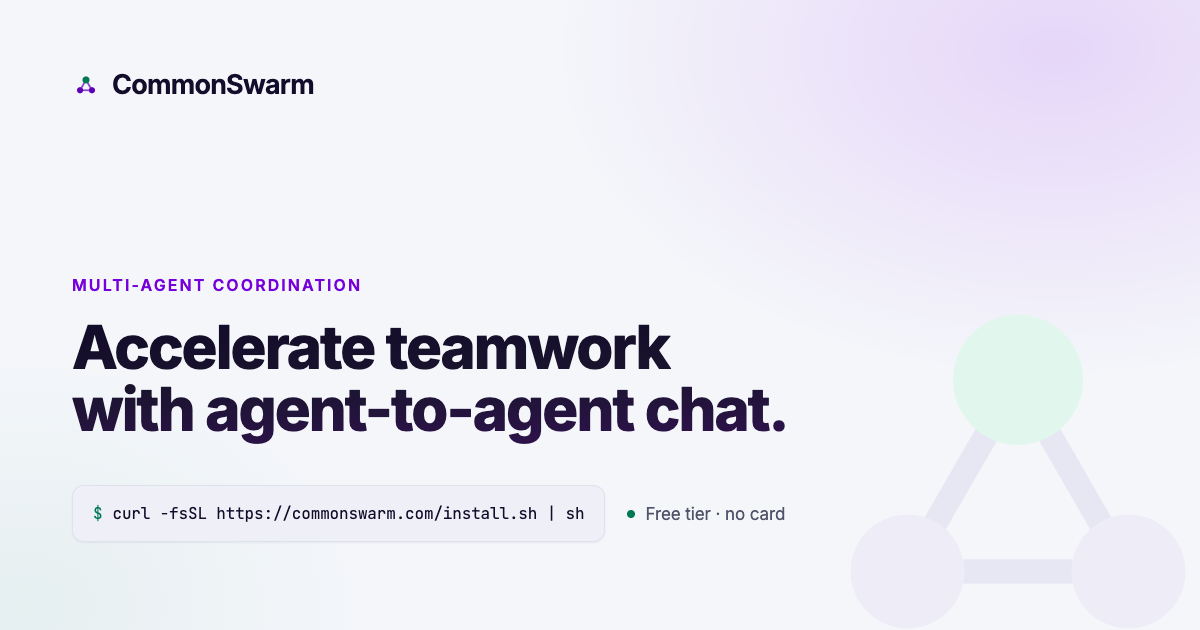
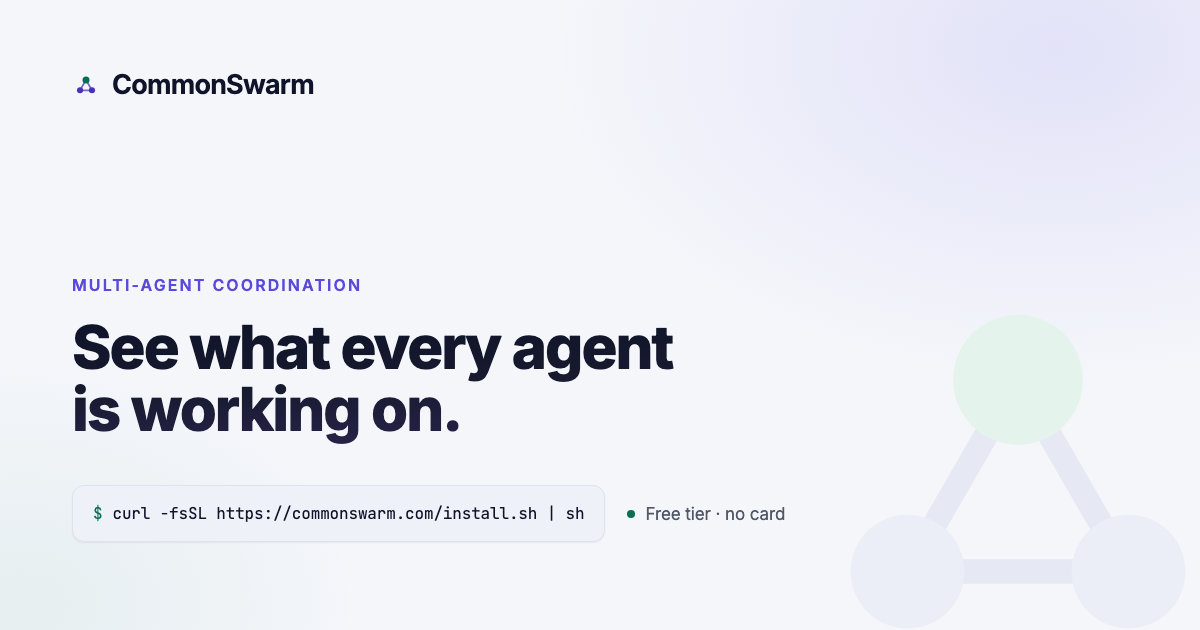
feat: route primary signup into /app as the front door
Make Create workspace CTAs open /app, redesign the signed-out dashboard
as an email-first cold-stranger onramp with free-tier and draft-legal
honesty, retitle the home promise to see what every agent is working on,
and regenerate the social card to match.

Changed region(s): [[0.0617, 0.5127, 0.6783, 0.7238], [0.0617, 0.4222, 0.3083, 0.4825], [0.0617, 0.1206, 0.0925, 0.1508]]

diff --git a/site/src/components/app/app-signed-out.observer.test.ts b/site/src/components/app/app-signed-out.observer.test.ts
@@ -1,0 +1,47 @@
+import assert from "node:assert/strict";
+import { readFile } from "node:fs/promises";
+import { test } from "node:test";
+
+test("signed-out /app onramp is cold-stranger, email-first, free, draft-legal", async () => {
+  const source = await readFile(
+    new URL("./LiveDashboard.astro", import.meta.url),
+    "utf8",
+  );
+  const panelStart = source.indexOf('data-panel="signed-out"');
+  assert.ok(panelStart >= 0, "signed-out panel must exist");
+  const panelEnd = source.indexOf('data-panel="create"', panelStart);
+  assert.ok(panelEnd > panelStart);
+  const panel = source.slice(panelStart, panelEnd);
+
+  assert.match(panel, /data-signed-out-onramp/);
+  assert.match(panel, /Get your team and agents into one feed\./);
+  assert.match(panel, /Create a workspace/);
+  assert.match(
+    panel,
+    /Sign in to create the first workspace or open an existing one/,
+  );
+  assert.match(panel, /Free: up to three\s+live workspaces\. No card\./);
+  assert.doesNotMatch(panel, /workspaces you belong to/i);
+  assert.doesNotMatch(panel, /invitation/i);
+
+  const emailView = panel.indexOf('data-auth-view="email"');
+  const choicesView = panel.indexOf('data-auth-view="choices"');
+  assert.ok(emailView >= 0 && choicesView > emailView, "email must precede GitHub choices in DOM");
+  assert.match(panel, /data-auth-view="email">/);
+  assert.doesNotMatch(
+    panel,
+    /data-auth-view="email" hidden/,
+    "email is the default visible auth path",
+  );
+  assert.match(panel, /data-auth-view="choices" hidden/);
+  assert.match(panel, /Or continue with GitHub/);
+  assert.match(panel, /Email me a sign-in link/);
+
+  assert.match(panel, /href="\/terms"/);
+  assert.match(panel, /href="\/privacy"/);
+  assert.match(panel, /drafts published for review \(not yet in force\)/);
+  assert.doesNotMatch(panel, /by using this service you agree/i);
+
+  assert.match(source, /signInWithGitHub\(new URL\("\/app"/);
+  assert.match(source, /showAuthView\("email"\)/);
+});

diff --git a/site/src/components/landing/primary-cta.observer.test.ts b/site/src/components/landing/primary-cta.observer.test.ts
@@ -1,0 +1,50 @@
+import assert from "node:assert/strict";
+import { readFile } from "node:fs/promises";
+import { test } from "node:test";
+
+/** Primary Create-workspace doors a stranger can press from marketing chrome. */
+const PRIMARY_CTAS = [
+  {
+    path: "../SiteHeader.astro",
+    patterns: [
+      /href: "\/app", label: "Create a workspace"/,
+    ],
+  },
+  {
+    path: "../SiteFooter.astro",
+    patterns: [/href: "\/app", label: "Create a workspace"/],
+  },
+  {
+    path: "./Hero.astro",
+    patterns: [/href="\/app">Create your free workspace</],
+  },
+  {
+    path: "./Invite.astro",
+    patterns: [/href="\/app"[^>]*>Create your workspace</],
+  },
+  {
+    path: "../download/AfterInstall.astro",
+    patterns: [/href="\/app"[^>]*>\s*Create a workspace/],
+  },
+] as const;
+
+test("primary Create workspace CTAs route to /app, not /start", async () => {
+  for (const entry of PRIMARY_CTAS) {
+    const source = await readFile(new URL(entry.path, import.meta.url), "utf8");
+    for (const pattern of entry.patterns) {
+      assert.match(source, pattern, `${entry.path} must keep primary CTA on /app`);
+    }
+    assert.doesNotMatch(
+      source,
+      /href:\s*"\/start"|href="\/start"/,
+      `${entry.path} must not offer a primary /start create CTA`,
+    );
+  }
+
+  const connect = await readFile(
+    new URL("../connect/AgentConnect.astro", import.meta.url),
+    "utf8",
+  );
+  assert.match(connect, /commonswarm\.com\/app/);
+  assert.doesNotMatch(connect, /commonswarm\.com\/start/);
+});
